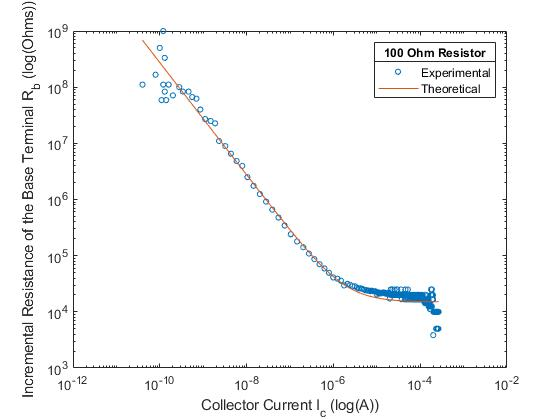
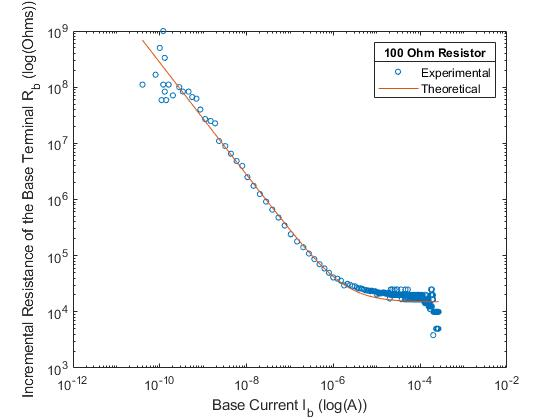
Continued work on Lab 3 Exp 2 Plots

Changed region(s): [[0.3643, 0.9286, 0.6679, 1.0]]

diff --git a/Lab 3/lab3_Sabrina.m b/Lab 3/lab3_Sabrina.m
@@ -34,7 +34,6 @@ semilogy(Vb10k,Ic10k,'k')
 
 %semilogx(Vbt,Ibt,'m*')
 
-legend('100','1k','10k')
 ylabel('Collector Current (log(A))')
 xlabel('Base Voltage (V)')
 
@@ -47,15 +46,22 @@ y1 = polyval(p1,Vb1k); % generates y values using the coefficents from polyfit
 Ut = 1/p1(1);
 Is = exp(p1(2));
 
+% theoretical = log(Is)+(1./Ut)*Vb100
+
+semilogy(Vb1k(20:80), exp(y1(20:80)))
+
+legend('100 Ohm Resisitor','1k Ohm Resisitor','10k Ohm Resisitor','Theoretical Fit, Is = 2.07e-16, Ut = 0.0284')
+
 
 %% Experiment 2 - plot 2a
 
 clf
 
-plot(Vb100,Ic100,'mo', 'MarkerSize', 1)
+plot(Vb100,Ic100,'--', 'MarkerSize',1)
 hold on
 ylabel('Collector Current (A)')
 xlabel('Base Voltage (V)')
+
 
 
 p100 = polyfit(Vb100(76:226),Ic100(76:226),1); %V1 is the x axis, I1 is the y axis, 1 gives us linear coefficients (y=mx+b so p1=[m b])
@@ -63,12 +69,19 @@ y100 = polyval(p100,Vb100(40:350)); % generates y values using the coefficents f
 root100 = roots(p100);
 plot(Vb100(40:350),y100)
 
+m100 = 1/p100(1)
+
+
+lgd = legend('Experimental','1/m = 105 Ohms, V_{on} = .6935 V');
+title(lgd,'100 Ohm Resistor')
+
+
 
 %% Experiment 2 - plot 2b
 
 clf
 
-plot(Vb1k,Ic1k,'r')
+plot(Vb1k,Ic1k,'--', 'MarkerSize',1)
 hold on
 ylabel('Collector Current (A)')
 xlabel('Base Voltage (V)')
@@ -79,11 +92,16 @@ y1k = polyval(p1k,Vb1k(40:501)); % generates y values using the coefficents from
 root1k = roots(p1k);
 plot(Vb1k(40:501),y1k)
 
+m1k = 1/p1k(1)
+
+lgd = legend('Experimental','1/m = 1027 Ohms, V_{on} = .6565 V');
+title(lgd,'1k Ohm Resistor')
+
 %% Experiment 2 - plot 2c
 
 clf
 
-plot(Vb10k,Ic10k,'r')
+plot(Vb10k,Ic10k,'--', 'MarkerSize',1)
 hold on
 ylabel('Collector Current (A)')
 xlabel('Base Voltage (V)')
@@ -92,6 +110,12 @@ p10k = polyfit(Vb10k(100:500),Ic10k(100:500),1); %V1 is the x axis, I1 is the y 
 y10k = polyval(p10k,Vb10k(40:501)); % generates y values using the coefficents from polyfit
 root10k = roots(p10k);
 plot(Vb10k(40:501),y10k)
+
+m10k = 1/p10k(1)
+
+lgd = legend('Experimental','1/m = 10260 Ohms, V_{on} = .6011 V');
+title(lgd,'10k Ohm Resistor')
+
 
 %% Experiment 2 rb100
 
@@ -106,7 +130,7 @@ loglog(Ib100, rb100_theoretical)
 
 lgd = legend('Experimental','Theoretical');
 title(lgd,'100 Ohm Resistor')
-xlabel('Collector Current I_c (log(A))')
+xlabel('Base Current I_b (log(A))')
 ylabel('Incremental Resistance of the Base Terminal R_b (log(Ohms))')
 
 %% Experiment 2 rb1k
@@ -145,6 +169,24 @@ title(lgd,'10k Ohm Resistor')
 xlabel('Base Current I_b (log(A))')
 ylabel('Incremental Resistance of the Base Terminal R_b (log(Ohms))')
 
+%% Exp 2 rb consolidate
+
+clf
+
+loglog(Ib100(1:end-1), rb100, 'o','markersize', 4)
+hold on
+loglog(Ib100, rb100_theoretical)
+loglog(Ib1k(20:end-1), rb1k(20:end), 'o','markersize', 4)
+loglog(Ib1k(20:end), rb1k_theoretical(20:end))
+
+loglog(Ib10k(1:end-1), rb10k(1:end), 'o','markersize', 4)
+loglog(Ib10k(1:end), rb10k_theoretical(1:end))
+
+
+legend('Experimental, 100 Ohms','Theoretical, 100 Ohms', 'Experimental, 1k Ohms','Theoretical, 1k Ohms','Experimental, 10k Ohms','Theoretical, 10k Ohms');
+
+xlabel('Base Current I_b (log(A))')
+ylabel('Incremental Resistance of the Base Terminal R_b (log(Ohms))')
 
 %% Experiment 2 gm100
 clf;
@@ -190,8 +232,26 @@ title(lgd,'10k Ohm Resistor')
 xlabel('Collector Current I_c (log(A))')
 ylabel('Incremental Transconductance Gain G_m(log(Mhos))')
 
+%% Experiment 2 gm consolidate
 
 
+clf;
+
+
+loglog(Ic100(1:end-1),gm100, 'o', 'markersize', 4)
+hold on
+loglog(Ic100,gm100_theoretical)
+
+loglog(Ic1k(1:end-1),gm1k, 'o', 'markersize', 4)
+loglog(Ic1k,gm1k_theoretical)
+
+loglog(Ic10k(1:end-1),gm10k, 'o', 'markersize', 4)
+loglog(Ic10k,gm10k_theoretical)
+
+legend('Experimental, 100 Ohms','Theoretical, 100 Ohms', 'Experimental, 1k Ohms','Theoretical, 1k Ohms','Experimental, 10k Ohms','Theoretical, 10k Ohms');
+
+xlabel('Collector Current I_c (log(A))')
+ylabel('Incremental Transconductance Gain G_m (log(Mhos))')
 
 
 
